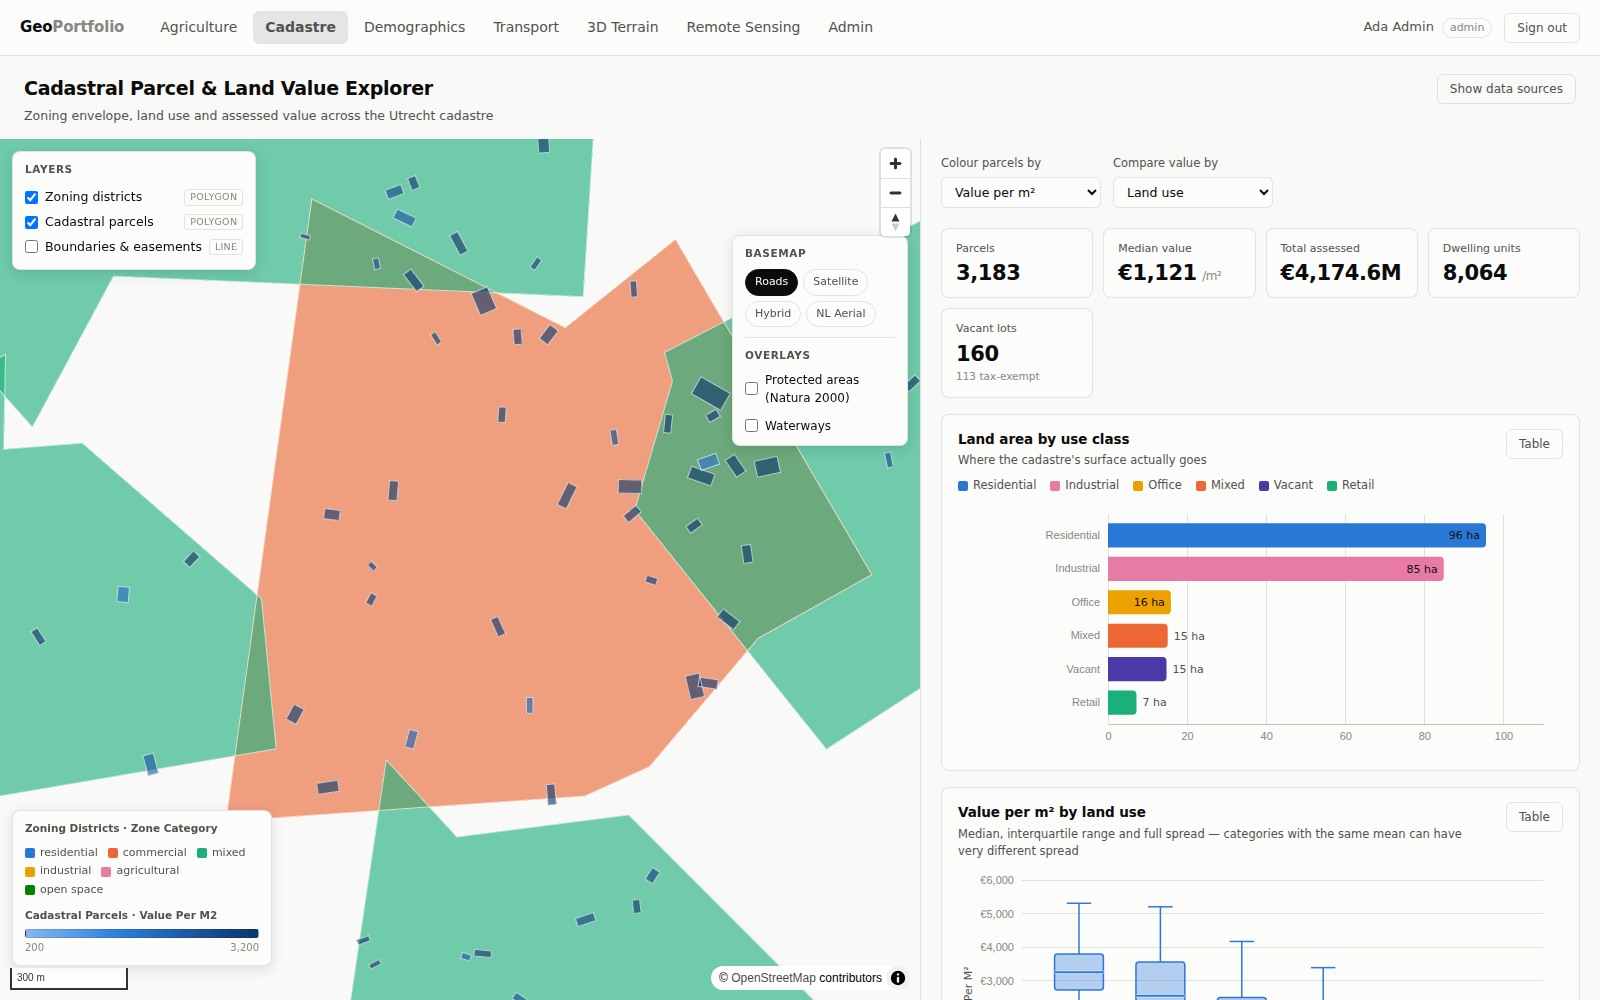
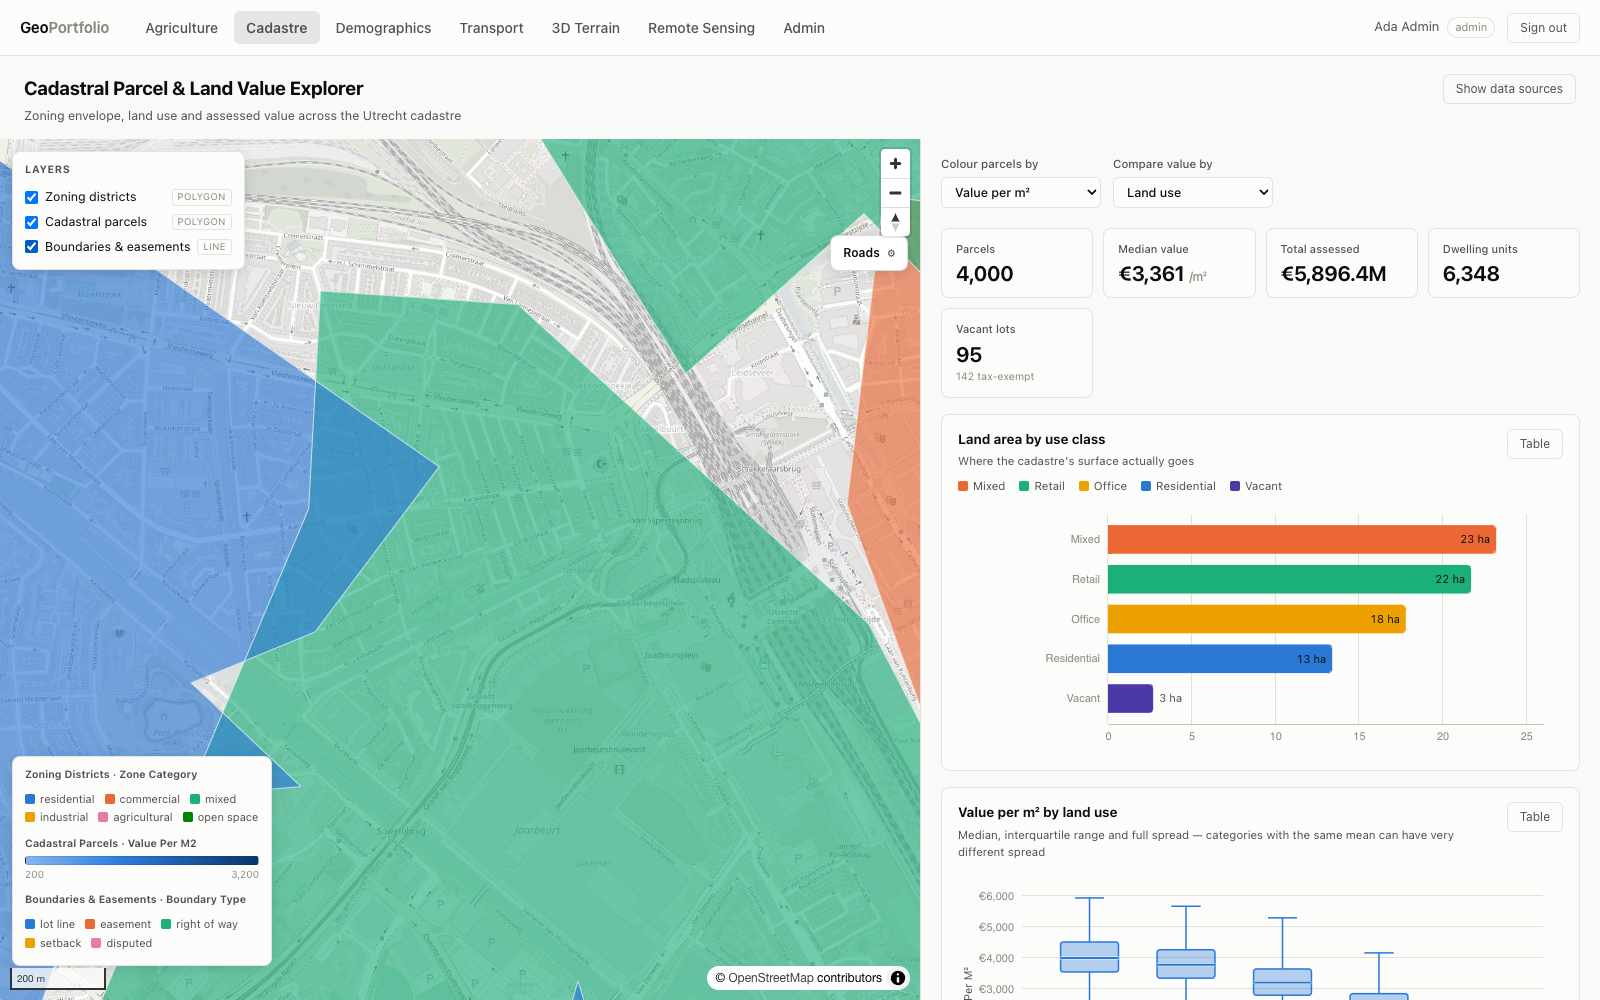
Regenerate screenshots with every layer enabled, embed all six in README
scripts/screenshots.mjs now toggles on every layer checkbox before
capturing each project (previously only whatever defaulted on --
usually just one layer), so the screenshots actually show what each
project's map stack looks like: real crop fields + irrigation network
+ soil samples, real cadastral parcels + zoning + boundaries, extruded
buildings + contours + hydrology + elevation bands, and so on.

Also switched page.goto's waitUntil from 'networkidle' to 'load' --
the real-data projects now have thousands of tiles/rows in flight
continuously enough that networkidle never resolved and every
navigation timed out.

README previously embedded only the agriculture screenshot; now all
six project screenshots are shown alongside the summary table.

diff --git a/README.md b/README.md
@@ -15,7 +15,29 @@ every layer overlays exactly:
 Vector tiles are generated in PostGIS with `ST_AsMVT`, served by FastAPI behind role-based
 access control, and rendered with MapLibre. Analytics panels are D3 over aggregate endpoints.
 
+**Agriculture** — crop fields (real BRP boundaries) colored by crop type, irrigation network and soil sample sites all on:
+
 ![The agriculture project](docs/screenshots/03-agriculture.png)
+
+**Cadastre** — parcels (real BRK boundaries), zoning districts and lot-line easements:
+
+![The cadastre project](docs/screenshots/04-parcel.png)
+
+**Demographics** — census tracts, the population grid and commute desire lines together:
+
+![The demographics project](docs/screenshots/05-demographics.png)
+
+**Transport** — the road network, transit routes and stops, and walk-time accessibility isochrones stacked:
+
+![The transport project](docs/screenshots/06-transport.png)
+
+**3D Terrain** — extruded buildings (real BGT footprints) draped over Copernicus DEM terrain, with contours, hydrology and elevation bands on:
+
+![The 3D terrain project](docs/screenshots/07-terrain-3d.png)
+
+**Remote Sensing** — the change-detection and index layers over the study area:
+
+![The remote sensing project](docs/screenshots/08-remote-sensing.png)
 
 ---
 
